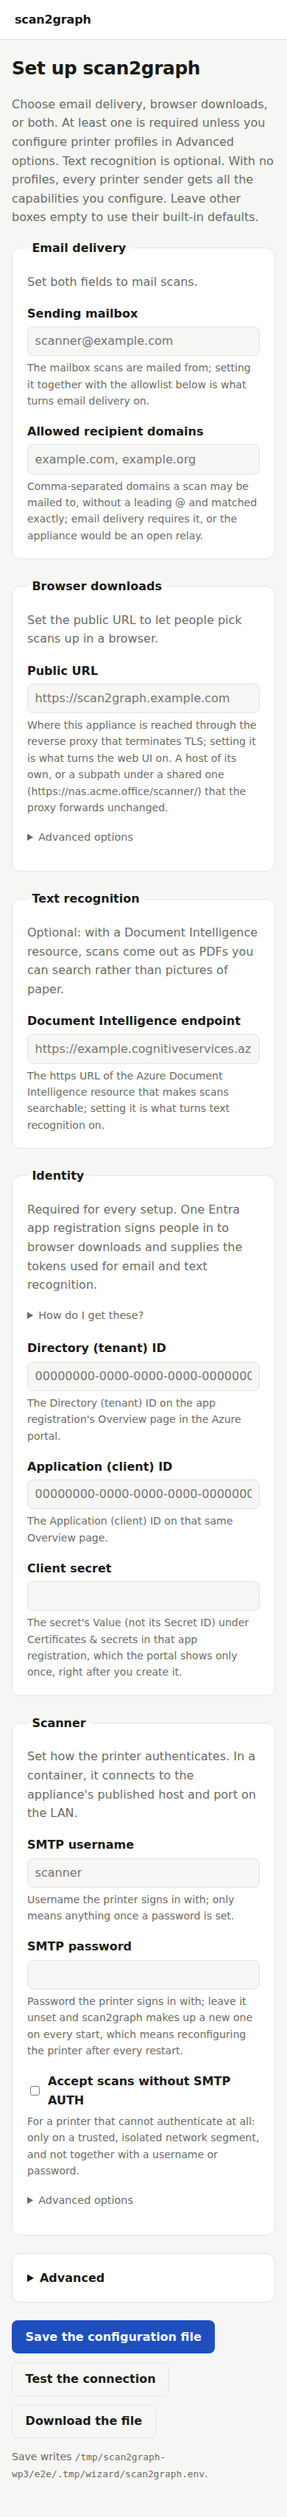
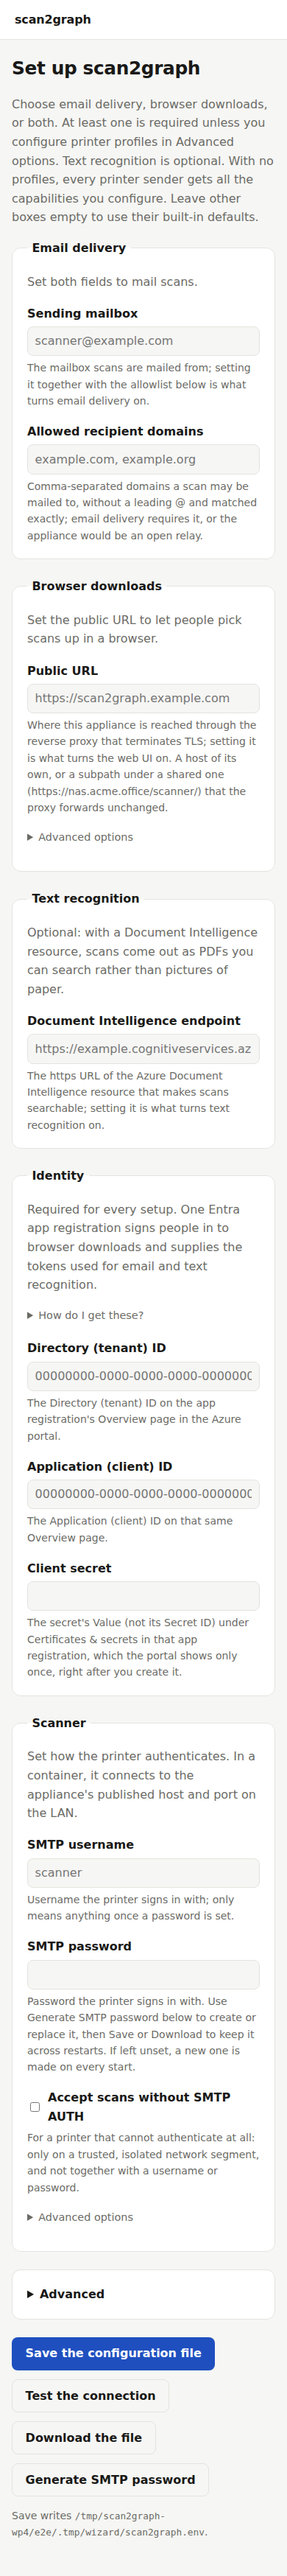
Generate a stable SMTP password during setup
Let the operator explicitly generate and copy a printer password before
saving the configuration. Reuse pending form retention so validation and
connection checks do not lose it, without changing service-mode fallback
or adding another credential store.

Keep generation behind the wizard claim and refuse ineffective overrides.
Verify the saved password authenticates a real scan after restart.

Changed region(s): [[0.0308, 0.0, 0.9231, 0.993]]

diff --git a/internal/web/templates/setup.html b/internal/web/templates/setup.html
@@ -24,6 +24,13 @@ one is required unless you configure printer profiles in Advanced options.
 Text recognition is optional. With no profiles, every printer sender gets all
 the capabilities you configure. Leave other boxes empty to use their built-in
 defaults.</p>
+{{if .GeneratedSMTPPassword}}
+<div class="checks">
+<p>New SMTP password: <code id="generated-smtp-password">{{.GeneratedSMTPPassword}}</code></p>
+<p>Copy this password for the printer, then Save or Download the configuration file.
+Nothing has been saved yet. This password will not be shown again.</p>
+</div>
+{{end}}
 {{if .Errors}}
 <div class="problems">
 <p>Not usable yet:</p>
@@ -84,6 +91,7 @@ mailbox it is meant for.</p>
 {{if .Path}}<button type="submit" name="action" value="save" class="primary">Save the configuration file</button>{{end}}
 <button type="submit" name="action" value="test">Test the connection</button>
 <button type="submit" name="action" value="download">Download the file</button>
+<button type="submit" name="action" value="generate-smtp-password">Generate SMTP password</button>
 </div>
 {{if .Path}}<p class="dest muted small">Save writes <code>{{.Path}}</code>.</p>{{end}}
 </form>

diff --git a/internal/web/setup_test.go b/internal/web/setup_test.go
@@ -1,10 +1,12 @@
 package web
 
 import (
+	"bytes"
 	"cmp"
 	"crypto/sha256"
 	"html"
 	"io"
+	"log/slog"
 	"maps"
 	"net/http"
 	"net/http/cookiejar"
@@ -166,6 +168,149 @@ func loads(t *testing.T, path string) map[string]string {
 		t.Fatalf("the written file does not load: %v", err)
 	}
 	return values
+}
+
+func TestSetupGenerateSMTPPasswordGate(t *testing.T) {
+	h := newSetupHarness(t, SetupOptions{})
+	outsider := h.client()
+	form := url.Values{"action": {"generate-smtp-password"}}
+	for _, claimed := range []bool{false, true} {
+		if claimed {
+			h.claimed()
+		}
+		resp, body := h.post(outsider, form)
+		if resp.StatusCode != http.StatusNotFound || strings.Contains(body, `id="generated-smtp-password"`) {
+			t.Fatalf("generation admitted non-holder (claimed=%t)", claimed)
+		}
+	}
+}
+
+func TestSetupGenerateSMTPPasswordRetained(t *testing.T) {
+	for _, action := range []string{"save", "download"} {
+		t.Run(action, func(t *testing.T) {
+			var logs bytes.Buffer
+			previous := slog.Default()
+			slog.SetDefault(slog.New(slog.NewTextHandler(&logs, nil)))
+			defer slog.SetDefault(previous)
+			stub := newMSStub(t)
+			form, file := testForm(stub)
+			file["S2G_SMTP_PASSWORD"] = testClientSecret
+			if action == "download" {
+				delete(file, "S2G_SMTP_PASSWORD")
+				file["S2G_SMTP_PASSWORD_FILE"] = "/missing/secret"
+			}
+			path := filepath.Join(t.TempDir(), setupFileName)
+			if action == "download" {
+				path = ""
+			}
+			h := newSetupHarness(t, SetupOptions{FileValues: file, Path: path})
+			c := h.claimed()
+			// Generation works before Entra is configured and preserves other input.
+			_, body := h.post(c, url.Values{"action": {"generate-smtp-password"}, "S2G_UI_TITLE": {"Office scanner"}})
+			match := regexp.MustCompile(`<code[^>]*>([A-Z2-7]+)</code>`).FindStringSubmatch(body)
+			if len(match) != 2 || len(match[1]) < 26 {
+				t.Fatal("generation did not reveal a random password before validation")
+			}
+			password := match[1]
+			if logs.Len() != 0 {
+				t.Fatal("generation unexpectedly logged output")
+			}
+			if strings.Count(body, password) != 1 || strings.Contains(body, testClientSecret) || !strings.Contains(body, "Office scanner") || strings.Contains(body, "Not usable yet") || strings.Contains(body, "App-only token") {
+				t.Fatal("generation leaked another secret, lost input, or validated/tested configuration")
+			}
+			if path != "" {
+				if _, err := os.Stat(path); !os.IsNotExist(err) {
+					t.Fatal("generation wrote a configuration file")
+				}
+			}
+			_, fresh := h.get(c, "/setup")
+			if strings.Contains(fresh, password) || strings.Contains(fresh, testClientSecret) || strings.Contains(fresh, `id="generated-smtp-password"`) {
+				t.Fatal("fresh GET revealed a secret")
+			}
+			// An invalid save, then a failed connection test, both retain blank secrets.
+			_, body = h.post(c, url.Values{"action": {"save"}, "form": {h.formID(body)}})
+			if !strings.Contains(body, `class="error small"`) || strings.Contains(body, password) {
+				t.Fatal("invalid save did not report validation errors with secrets masked")
+			}
+			form.Set("form", h.formID(body))
+			stub.secret = "rotated-" + testClientSecret
+			_, body = h.post(c, form)
+			if !strings.Contains(body, `class="fail"`) || strings.Contains(body, password) || strings.Contains(body, testClientSecret) {
+				t.Fatal("connection failure did not render with secrets masked")
+			}
+			form.Set("form", h.formID(body))
+			form.Set("S2G_ENTRA_CLIENT_SECRET", "")
+			form.Set("action", action)
+			resp, body := h.post(c, form)
+			if action == "download" {
+				if resp.Header.Get("Content-Disposition") == "" {
+					t.Fatal("download did not return a file")
+				}
+				path = filepath.Join(t.TempDir(), setupFileName)
+				if err := os.WriteFile(path, []byte(body), 0600); err != nil {
+					t.Fatal(err)
+				}
+			} else if !strings.Contains(body, "<h1>Saved</h1>") {
+				t.Fatal("save failed")
+			}
+			got := loads(t, path)
+			if got["S2G_SMTP_PASSWORD"] != password || got["S2G_SMTP_PASSWORD_FILE"] != "" || got["S2G_ENTRA_CLIENT_SECRET"] != testClientSecret {
+				t.Fatal("saved/downloaded credentials differ from pending form or retain _FILE")
+			}
+			_, body = h.get(c, "/setup")
+			if strings.Contains(body, password) || strings.Contains(body, testClientSecret) {
+				t.Fatal("later GET revealed a secret")
+			}
+			if strings.Contains(logs.String(), password) || strings.Contains(logs.String(), testClientSecret) {
+				t.Fatal("credential appeared in logs")
+			}
+		})
+	}
+}
+
+func TestSetupGenerateSMTPPasswordConflicts(t *testing.T) {
+	var logs bytes.Buffer
+	previous := slog.Default()
+	slog.SetDefault(slog.New(slog.NewTextHandler(&logs, nil)))
+	defer slog.SetDefault(previous)
+	anonFile := filepath.Join(t.TempDir(), "anonymous")
+	if err := os.WriteFile(anonFile, []byte("true\n"), 0600); err != nil {
+		t.Fatal(err)
+	}
+	for _, tc := range []struct {
+		name      string
+		env, file map[string]string
+		form      url.Values
+		want      string
+	}{
+		{name: "environment password", env: map[string]string{"S2G_SMTP_PASSWORD": testClientSecret}, want: "remove the override first"},
+		{name: "environment password file", env: map[string]string{"S2G_SMTP_PASSWORD_FILE": "/missing/secret"}, want: "remove the override first"},
+		{name: "environment both", env: map[string]string{"S2G_SMTP_PASSWORD": testClientSecret, "S2G_SMTP_PASSWORD_FILE": "/missing/secret"}, want: "remove the override first"},
+		{name: "form anonymous", form: url.Values{"S2G_SMTP_ALLOW_ANONYMOUS": {"true"}}, want: "turn off anonymous SMTP"},
+		{name: "environment anonymous", env: map[string]string{"S2G_SMTP_ALLOW_ANONYMOUS": "true"}, form: url.Values{"S2G_SMTP_ALLOW_ANONYMOUS": {"false"}}, want: "turn off anonymous SMTP"},
+		{name: "environment anonymous file", env: map[string]string{"S2G_SMTP_ALLOW_ANONYMOUS_FILE": anonFile}, want: "turn off anonymous SMTP"},
+		{name: "configuration anonymous file", file: map[string]string{"S2G_SMTP_ALLOW_ANONYMOUS_FILE": anonFile}, want: "turn off anonymous SMTP"},
+	} {
+		t.Run(tc.name, func(t *testing.T) {
+			path := filepath.Join(t.TempDir(), setupFileName)
+			h := newSetupHarness(t, SetupOptions{Path: path, FileValues: tc.file, Getenv: func(k string) string { return tc.env[k] }})
+			form := tc.form
+			if form == nil {
+				form = url.Values{}
+			}
+			form.Set("action", "generate-smtp-password")
+			resp, body := h.post(h.claimed(), form)
+			if !strings.Contains(body, tc.want) || strings.Contains(body, `id="generated-smtp-password"`) || strings.Contains(body, testClientSecret) || strings.Contains(resp.Header.Get("Location"), testClientSecret) {
+				t.Fatal("generation did not reject the conflict with secrets masked")
+			}
+			if _, err := os.Stat(path); !os.IsNotExist(err) {
+				t.Fatal("rejected generation wrote a file")
+			}
+		})
+	}
+	if logs.Len() != 0 {
+		t.Fatal("rejected generation unexpectedly logged output")
+	}
 }
 
 // TestSetupFieldsCoverConfig is the whole defence against the field table and

diff --git a/internal/web/setup.go b/internal/web/setup.go
@@ -258,6 +258,25 @@ func (s *setupServer) submit(w http.ResponseWriter, r *http.Request) {
 		return
 	}
 	values, file, foldErr := s.values(r.PostForm)
+	action := r.PostForm.Get("action")
+	var generated string
+	var cfg *config.Config
+	var err error
+	if action == "generate-smtp-password" {
+		anonymous, _ := strconv.ParseBool(config.Resolve(config.Layer(values, s.Getenv), "S2G_SMTP_ALLOW_ANONYMOUS"))
+		switch {
+		case s.Getenv("S2G_SMTP_PASSWORD") != "" || s.Getenv("S2G_SMTP_PASSWORD_FILE") != "":
+			err = errors.New("S2G_SMTP_PASSWORD: cannot generate while S2G_SMTP_PASSWORD or S2G_SMTP_PASSWORD_FILE is set in the environment; remove the override first")
+		case anonymous:
+			err = errors.New("S2G_SMTP_ALLOW_ANONYMOUS: turn off anonymous SMTP before generating a password")
+		default:
+			generated = rand.Text()
+			values["S2G_SMTP_PASSWORD"] = generated
+			delete(values, "S2G_SMTP_PASSWORD_FILE")
+		}
+	} else {
+		cfg, err = config.Load(config.Layer(values, s.Getenv))
+	}
 
 	// The real loader through the real precedence, so the wizard cannot
 	// disagree with the next start about what is valid. The profile editor's
@@ -265,11 +284,9 @@ func (s *setupServer) submit(w http.ResponseWriter, r *http.Request) {
 	// them, so it lands under its box through the same path - and, being
 	// first, is the one shown there when the loader has something to say
 	// about the same setting too.
-	cfg, err := config.Load(config.Layer(values, s.Getenv))
 	general, byField := attribute(errors.Join(foldErr, err))
 	var checks []checkResult
-	if len(general) == 0 && len(byField) == 0 {
-		action := r.PostForm.Get("action")
+	if action != "generate-smtp-password" && len(general) == 0 && len(byField) == 0 {
 		switch {
 		case action == "test":
 			// Advice, not validation: this renders the form straight back,
@@ -305,6 +322,7 @@ func (s *setupServer) submit(w http.ResponseWriter, r *http.Request) {
 	}
 	v := s.view(values, general, byField, posted)
 	v.Checks = checks
+	v.GeneratedSMTPPassword = generated
 	// Everything that reaches this render was handed back rather than saved,
 	// so the next press from the page it renders folds into it: the secret a
 	// check was just run against, and the one a validation failure would
@@ -670,6 +688,8 @@ func writeFile(path string, data []byte) error {
 // setupView is the page: the fields grouped as the form shows them, plus
 // whatever the loader had to say about them.
 type setupView struct {
+	// Only the response to an explicit generation reveals this value.
+	GeneratedSMTPPassword string
 	page
 	Groups []setupGroup
 	Errors []string // not attributable to one field, shown above the form

diff --git a/internal/web/setupfields.go b/internal/web/setupfields.go
@@ -91,7 +91,7 @@ var setupFields = []setupField{
 		Placeholder: "scanner",
 	}, {
 		Name: "S2G_SMTP_PASSWORD", Label: "SMTP password", Kind: fieldSecret, Group: "Scanner",
-		Help: "Password the printer signs in with; leave it unset and scan2graph makes up a new one on every start, which means reconfiguring the printer after every restart.",
+		Help: "Password the printer signs in with. Use Generate SMTP password below to create or replace it, then Save or Download to keep it across restarts. If left unset, a new one is made on every start.",
 	}, {
 		Name: "S2G_SMTP_ALLOW_ANONYMOUS", Label: "Accept scans without SMTP AUTH", Kind: fieldBool, Group: "Scanner",
 		Help: "For a printer that cannot authenticate at all: only on a trusted, isolated network segment, and not together with a username or password.",

diff --git a/README.md b/README.md
@@ -31,11 +31,12 @@ ssh -N -L 8080:127.0.0.1:8080 operator@scan-host.example
 The wizard needs [Entra identity](#entra-id-app-registration) and at least one
 delivery method: email, [web downloads](#reverse-proxy), or both.
 [OCR](#azure-document-intelligence) is optional. Leave printer profiles empty
-for one default behavior. Set a stable SMTP password so the printer keeps
-working after restarts. A proxy subpath needs `S2G_PUBLIC_BASE_URL` seeded
-before first boot; see [Reverse proxy](#reverse-proxy).
+for one default behavior. Use **Generate SMTP password**, copy the displayed
+value for the printer, then press **Save** to persist it across restarts. A
+proxy subpath needs `S2G_PUBLIC_BASE_URL` seeded before first boot; see [Reverse
+proxy](#reverse-proxy).
 
-Press **Save**, then restart from another terminal on the Docker host:
+Then restart from another terminal on the Docker host:
 
 ```bash
 docker compose -f docker-compose.example.yml restart scan2graph
@@ -314,7 +315,7 @@ real environment variables.
 | variable | default | required when |
 | --- | --- | --- |
 | `S2G_SMTP_USERNAME` | `scanner` | only meaningful once a password is set |
-| `S2G_SMTP_PASSWORD` | none — an ephemeral password is generated and printed on every start | set it for a deployment that must keep working across restarts |
+| `S2G_SMTP_PASSWORD` | none — service mode still generates and prints an ephemeral password on every start | set it for a deployment that must keep working across restarts |
 | `S2G_SMTP_ALLOW_ANONYMOUS` | `false` | mutually exclusive with the two above |
 
 **Sender profiles & recipients**
@@ -391,9 +392,9 @@ boxes that caused them.
 
 ![A submission the loader refused, with each complaint under the box that caused it](docs/screenshots/setup-errors.png)
 
-**Test the connection** is the third button, and the only thing in the wizard
-that talks to Microsoft. Three lines come back, each bounded and none of them
-sending, uploading or saving anything:
+**Test the connection** is the only thing in the wizard that talks to
+Microsoft. Three lines come back, each bounded and none of them sending,
+uploading or saving anything:
 
 * **Entra sign-in** — the OIDC discovery the web UI's login needs, against the
   authority in the form.
